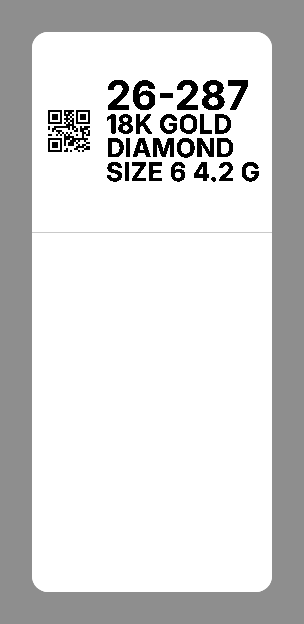
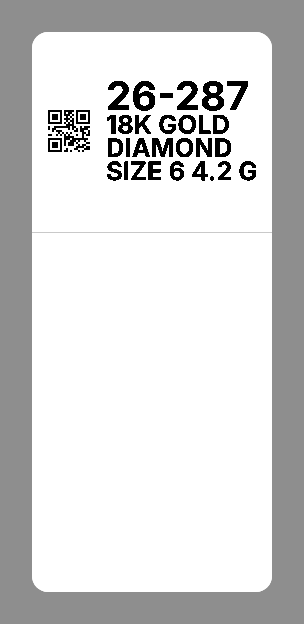
Equalize sticker side margins and match Download to Print.
The JO card and jewelry tag head reserve the same right margin as the QR's left ink, and the preview Download button uses Print's font size and height.

Changed region(s): [[0.3553, 0.1218, 0.8586, 0.3045]]

diff --git a/print-label.js b/print-label.js
@@ -228,6 +228,66 @@ function fitLine(text, maxW, start, min) {
   if (size) return { text: text, size: size };
   return { text: ellipsis(text, maxW, min), size: min };
 }
+/* Right edge of the ink, in label pixels, for text drawn at x = 0. Same 4× threshold as stampText. */
+function inkSpan(text, size) {
+  var m = metricsOf(text, size);
+  var tw = Math.max(2, Math.ceil(m.w + 4));
+  var th = Math.max(2, Math.ceil(m.ascent + m.descent + 4));
+  var canvas = makeCanvas(tw * SCALE, th * SCALE);
+  var ctx = canvas.getContext('2d');
+  ctx.fillStyle = '#ffffff';
+  ctx.fillRect(0, 0, canvas.width, canvas.height);
+  ctx.fillStyle = '#000000';
+  ctx.textBaseline = 'alphabetic';
+  ctx.textAlign = 'left';
+  ctx.font = fontCss(size);
+  var ascent = ctx.measureText(text).actualBoundingBoxAscent || size * SCALE * 0.72;
+  ctx.fillText(text, 0, Math.round(ascent));
+  var data = ctx.getImageData(0, 0, canvas.width, canvas.height).data;
+  var maxX = -1, x, y, dy, dx, dark, si;
+  for (y = 0; y < th; y++) for (x = 0; x < tw; x++) {
+    dark = 0;
+    for (dy = 0; dy < SCALE; dy++) for (dx = 0; dx < SCALE; dx++) {
+      si = ((y * SCALE + dy) * canvas.width + (x * SCALE + dx)) * 4;
+      if (data[si] < 150) dark++;
+    }
+    if (dark >= 6 && x > maxX) maxX = x;
+  }
+  return { right: maxX < 0 ? 0 : maxX };
+}
+/* Largest size whose ink ends on targetRight, at most 1 px short and never past it. */
+function sizeForInk(text, targetRight, start, min) {
+  var lo, hi, mid, span, best, guard;
+  if (!text) return null;
+  if (start < min) start = min;
+  lo = min;
+  hi = start;
+  best = null;
+  guard = 0;
+  while (hi - lo > 0.05 && guard < 28) {
+    guard++;
+    mid = (lo + hi) / 2;
+    span = inkSpan(text, mid);
+    if (span.right > targetRight) hi = mid;
+    else { best = { size: mid, span: span }; lo = mid; }
+  }
+  if (!best) {
+    span = inkSpan(text, min);
+    if (span.right > targetRight) {
+      text = ellipsis(text, Math.max(8, targetRight), min);
+      span = inkSpan(text, min);
+    }
+    return { text: text, size: min, span: span };
+  }
+  span = best.span;
+  while (span.right < targetRight - 1 && best.size + 0.1 <= start + 0.001) {
+    mid = Math.round((best.size + 0.1) * 1000) / 1000;
+    span = inkSpan(text, mid);
+    if (span.right > targetRight) break;
+    best = { size: mid, span: span };
+  }
+  return { text: text, size: best.size, span: best.span };
+}
 
 /* 4x fillText, then a coverage threshold. Faint gray fringes stay white. QR is not on this canvas. */
 function stampText(img, runs, box) {
@@ -302,14 +362,20 @@ function render(opts) {
     var mod = 3, quiet = 4;
     var qpix = mods ? qrSize(mods, mod, quiet) : 0;
     var gap = qpix ? 8 : 0;
-    var colW = Math.max(8, box.labelW - pad * 2 - qpix - gap - 2);
+    /* Right ink margin matches the QR's left ink margin. The quiet zone is white, so the ink starts after it. */
+    function tagTarget() {
+      var leftInk = qpix ? pad + quiet * mod : pad;
+      return Math.max(8, box.labelW - 1 - leftInk - (pad + qpix + gap));
+    }
+    var colW = tagTarget() + 1;
     /* Module 3 leaves a short column. Below 22 px, Inter caps are under about 2 mm, so drop the QR to module 2. */
     if (mods && specs.length && fitSpecs(specs, colW).size < 22 && qrSize(mods, 2, quiet) <= box.labelH - pad * 2) {
       mod = 2;
       qpix = qrSize(mods, mod, quiet);
       gap = 8;
-      colW = Math.max(8, box.labelW - pad * 2 - qpix - gap - 2);
+      colW = tagTarget() + 1;
     }
+    var target = tagTarget();
     var innerH = box.labelH - pad * 2 - 2;
     var specCap = SPEC_PX;
     var fitted = { size: 0, lines: [] };
@@ -317,11 +383,23 @@ function render(opts) {
     var block = 0, joM = { ascent: 0, descent: 0 }, lineH = 0, guard = 0;
     while (guard < 40) {
       guard++;
-      fitted = specs.length ? fitSpecs(specs, colW, specCap) : { size: 0, lines: [] };
-      specPx = fitted.size;
+      var longest = '', longestW = -1;
+      specs.forEach(function (t) {
+        var w = metricsOf(t, 16).w;
+        if (w > longestW) { longestW = w; longest = t; }
+      });
+      var specInk = specs.length ? sizeForInk(longest, target, specCap, SPEC_MIN) : null;
+      specPx = specInk ? specInk.size : 0;
+      fitted = {
+        size: specPx,
+        lines: specs.map(function (t) {
+          if (!specPx || inkSpan(t, specPx).right <= target) return t;
+          return ellipsis(t, Math.max(8, target), specPx);
+        })
+      };
       var joMin = specPx ? specPx + 2 : 18;
       if (joMin > JO_MAX) joMin = JO_MAX;
-      joFit = jo ? fitLine(jo, colW, JO_MAX, joMin) : null;
+      joFit = jo ? sizeForInk(jo, target, JO_MAX, joMin) : null;
       joPx = joFit ? joFit.size : 0;
       joM = joFit ? metricsOf(joFit.text, joPx) : { ascent: 0, descent: 0 };
       lineH = 0;
@@ -358,35 +436,43 @@ function render(opts) {
     stampText(img, runs, box);
     if (mods) img.qr(mods, qrBox.x, qrBox.y, mod, quiet);
   } else {
-    /* QR fills the 20 mm height down to about 1.5 mm margins. The JO fills the
-       width that is left, with about 1 mm kept clear on the right. */
+    /* QR stays the size that fills the 20 mm height. Its left ink margin is
+       repeated on the right, and the JO shrinks into the width that is left. */
     var mods2 = jo ? makeQr(jo) : null;
     var qrMax = box.labelH - px(1.5) * 2;
     var picked = mods2 ? chooseQr(mods2, qrMax) : { mod: 3, quiet: 4, size: 0 };
     var mod2 = picked.mod, quiet2 = picked.quiet, qpix2 = picked.size;
     var gap2 = qpix2 ? 4 : 0;
-    var beside2 = Math.max(8, box.labelW - pad * 2 - qpix2 - gap2 - 2);
+    var leftInk2 = qpix2 ? pad + quiet2 * mod2 : pad;
+    var target2 = Math.max(8, box.labelW - 1 - leftInk2 - (pad + qpix2 + gap2));
     var sub = smallLine(opts);
     var innerH = box.labelH - pad * 2;
+    var cardJo = null;
     if (jo) {
-      var cardJo = fitLine(jo, beside2, 72, 16);
+      cardJo = sizeForInk(jo, target2, 72, 16);
       joPx = cardJo.size;
       lines.push(cardJo.text);
     }
     var subFit = null;
-    if (sub && jo) {
-      var subMax = Math.max(12, joPx - 6);
-      subFit = fitLine(sub, beside2, Math.min(22, subMax), 12);
-      if (subFit.size >= joPx) subFit = null;
+    function fitSub() {
+      if (!sub || !cardJo) return null;
+      var subStart = Math.max(12, Math.min(22, joPx - 6));
+      var fit = sizeForInk(sub, cardJo.span.right, subStart, 9);
+      if (fit.size >= joPx) return null;
+      return fit;
     }
+    subFit = fitSub();
     var guardCard = 0;
-    while (jo && guardCard < 40) {
+    while (jo && cardJo && guardCard < 40) {
       var jmTry = metricsOf(lines[0], joPx);
       var smTry = subFit ? metricsOf(subFit.text, subFit.size) : null;
-      var tall = jmTry.ascent + jmTry.descent + (smTry ? 4 + smTry.ascent + smTry.descent : 0);
-      if (tall <= innerH || joPx <= 16) break;
+      var tallC = jmTry.ascent + jmTry.descent + (smTry ? 4 + smTry.ascent + smTry.descent : 0);
+      if (tallC <= innerH || joPx <= 16) break;
       joPx -= 1;
-      if (subFit && subFit.size >= joPx) subFit = null;
+      cardJo = sizeForInk(lines[0], target2, joPx, 16);
+      joPx = cardJo.size;
+      lines[0] = cardJo.text;
+      subFit = fitSub();
       guardCard++;
     }
     if (subFit) lines.push(subFit.text);

diff --git a/sim/print-sim.js b/sim/print-sim.js
@@ -105,6 +105,25 @@ function landscape(img) {
   return ink;
 }
 eq(clearMargin(long) && clearMargin(wide), 'spec ink stays about 1 mm inside the 30 mm edges');
+function sideMargins(img) {
+  const x0 = img.offsetX;
+  let left = -1, right = -1;
+  for (let x = 0; x < img.labelW; x++) for (let y = 0; y < img.labelH; y++) {
+    if (img.data[(y * img.width + x0 + x) * 4] === 0) {
+      if (left < 0) left = x;
+      right = x;
+    }
+  }
+  return { left: left, right: img.labelW - 1 - right };
+}
+function sameMargin(img, msg) {
+  const m = sideMargins(img);
+  eq(m.left >= 0 && Math.abs(m.left - m.right) <= 1, msg);
+}
+sameMargin(L.render({ kind: 'jo_card', model: 'B31', jo: '26-287', due: '2026-10-21' }), 'B31 JO card left and right ink margins match');
+sameMargin(L.render({ kind: 'jo_card', model: 'B31', jo: '26-1287', due: '2026-10-21' }), 'a long JO card keeps equal side margins');
+sameMargin(L.render(Object.assign({ model: 'B1' }, tag)), 'B1 jewelry tag left and right ink margins match');
+sameMargin(L.render(Object.assign({ model: 'B1', jo: '26-1287' }, tag)), 'a long jewelry tag keeps equal side margins');
 const cal = L.render({ kind: 'cal_tag', model: 'B31' });
 eq(cal.width === 600 && cal.height === 560 && cal.lines.length === 0 && cal.qr === '', 'calibration has no JO text and no name');
 function darkAt(img, x, y) { return img.data[(y * img.width + x) * 4] === 0; }
@@ -247,8 +266,8 @@ eq(/printQueue:\s*1/.test(app) && !/printQueue/.test(cached), 'printQueue is a c
 eq(!/printMark\s*:\s*1/.test(app) && !/printEnqueue\s*:\s*1/.test(app) && !/printReprint\s*:\s*1/.test(app), 'print writes are not client reads');
 eq(fast.includes('priceJobCost: 1, printQueue: 1') && !fast.includes('dashboard: 1, printQueue'), 'Fast READS gains printQueue and FAST.CACHE does not');
 eq(dash.includes('listUsers: 1, printQueue: 1') && !dash.includes("action !== 'printQueue'"), 'DashCache READS gains printQueue and the dashboard spec does not');
-eq(index.includes('print.js?v=8') && index.includes('print-label.js?v=7') && index.includes('nav.js?v=21') && index.includes('app.js?v=30') && index.includes('settings.js?v=19') && index.includes('print.css?v=6') && index.includes('app.css?v=38') && index.includes('settings.css?v=10'), 'print assets are cache-busted');
-eq(read('nav.js').includes('print-label.js?v=7') && read('nav.js').includes('print.js?v=8') && read('nav.js').includes('menuHtml'), 'the scanner injects the current label renderer');
+eq(index.includes('print.js?v=8') && index.includes('print-label.js?v=8') && index.includes('nav.js?v=21') && index.includes('app.js?v=30') && index.includes('settings.js?v=19') && index.includes('print.css?v=7') && index.includes('app.css?v=38') && index.includes('settings.css?v=10'), 'print assets are cache-busted');
+eq(read('nav.js').includes('print-label.js?v=8') && read('nav.js').includes('print.js?v=8') && read('nav.js').includes('menuHtml'), 'the scanner injects the current label renderer');
 eq(read('print.js').includes('offsetMm') && read('staff/print-test.html').includes('prOff'), 'offsets are saved per model and shown on the print test page');
 eq(read('staff/print-test.html').includes('OYPLabel.preview') && read('print.js').includes('oyp-qprev'), 'print test and the queue preview the sticker, not the printhead');
 const testPage = read('staff/print-test.html'), testCss = read('print.css');
@@ -261,6 +280,7 @@ eq(read('print.js').includes('Open in Chrome or Edge to connect a printer') && r
 eq(testPage.indexOf('<h2>Printer</h2>') < testPage.indexOf('<h2>Print queue</h2>') && testPage.indexOf('<h2>Print queue</h2>') < testPage.indexOf('<h2>Label alignment</h2>'), 'print test leads with printer settings, then the queue, then label alignment');
 eq(read('print.js').includes('id="prDark"') && read('print.css').includes('#prDark .pill.sm{min-width:32px'), 'each darkness number is a staff pill at least 32 px wide');
 eq(read('print.js').includes('labelOpts') && !/client:\s*item\.client/.test(read('print.js')), 'the printer payload builder does not copy the client name');
+eq(testPage.includes("textContent = 'Download'") && testPage.includes("textContent = 'PRINT'") && !testPage.includes('DOWNLOAD PNG') && testPage.includes("png.className = 'pill sm outline'") && testPage.includes("go.className = 'pill sm'") && testCss.includes('.oyp-pr-acts .pill.sm.outline{align-self:stretch;display:inline-flex;align-items:center;justify-content:center;font-size:var(--d-btnsm-fp,calc(14px*var(--hs)));font-weight:var(--d-btnsm-g,500);border-width:1px;padding-top:calc(9px*var(--sp) - 1px)'), 'Download matches Print in size and stays an outline');
 
 if (failed) { console.error(failed + ' failed'); process.exit(1); }
 console.log('print-sim passed');

diff --git a/staff/print-test.html b/staff/print-test.html
@@ -8,7 +8,7 @@
 <script src="../design.js?v=6"></script>
 <link rel="stylesheet" href="../app.css?v=38">
 <link rel="stylesheet" href="../settings.css?v=10">
-<link rel="stylesheet" href="../print.css?v=6">
+<link rel="stylesheet" href="../print.css?v=7">
 <link rel="icon" type="image/png" href="../favicon.png"><link rel="apple-touch-icon" href="../apple-touch-icon.png">
 </head><body>
 <header class="top">
@@ -31,7 +31,7 @@
 <div id="toast" class="toast hidden"></div>
 <script src="../vendor/qrcode.js?v=1"></script>
 <script src="../vendor/niimbluelib-0.47.1.js?v=1"></script>
-<script src="../print-label.js?v=7"></script>
+<script src="../print-label.js?v=8"></script>
 <script src="../print.js?v=8"></script>
 <script src="../nav.js?v=21"></script>
 <script>
@@ -96,7 +96,7 @@
     var png = document.createElement('button');
     png.type = 'button';
     png.className = 'pill sm outline';
-    png.textContent = 'DOWNLOAD PNG';
+    png.textContent = 'Download';
     png.onclick = function () { OYPPrint.download(s.kind, s); };
     row.appendChild(png);
     var go = document.createElement('button');

diff --git a/staff/index.html b/staff/index.html
@@ -13,7 +13,7 @@
 <link rel="stylesheet" href="../settings.css?v=10">
 <link rel="stylesheet" href="../production.css?v=7">
 <link rel="stylesheet" href="../consign.css?v=9">
-<link rel="stylesheet" href="../print.css?v=6">
+<link rel="stylesheet" href="../print.css?v=7">
 <link rel="icon" type="image/png" href="../favicon.png"><link rel="apple-touch-icon" href="../apple-touch-icon.png">
 </head><body>
 <header class="top">
@@ -65,7 +65,7 @@
 <script src="../production.js?v=8"></script>
 <script src="../vendor/qrcode.js?v=1"></script>
 <script src="../vendor/niimbluelib-0.47.1.js?v=1"></script>
-<script src="../print-label.js?v=7"></script>
+<script src="../print-label.js?v=8"></script>
 <script src="../print.js?v=8"></script>
 <script src="../nav.js?v=21"></script>
 <script src="../app.js?v=30"></script>

diff --git a/print.css b/print.css
@@ -30,6 +30,8 @@
 :where(.oyp-qmain .kf){display:flex;flex-wrap:wrap;gap:calc(4px * var(--sp,1));margin-top:calc(7px * var(--sp,1))}
 :where(.oyp-qbtns,.oyp-pr-acts){display:flex;flex-wrap:wrap;gap:calc(10px * var(--sp,1));align-items:center}
 :where(.oyp-pr-acts){margin-top:calc(6px * var(--sp,1))}
+.oyp-pr-acts .pill.sm{white-space:nowrap}
+.oyp-pr-acts .pill.sm.outline{align-self:stretch;display:inline-flex;align-items:center;justify-content:center;font-size:var(--d-btnsm-fp,calc(14px*var(--hs)));font-weight:var(--d-btnsm-g,500);border-width:1px;padding-top:calc(9px*var(--sp) - 1px);padding-bottom:calc(9px*var(--sp) - 1px)}
 
 .oyp-qmain{flex:1;min-width:140px}
 .oyp-qprev{width:84px;height:auto;flex:none;display:block;background:#8e8e8e;border-radius:calc(8px * var(--rad,1))}

diff --git a/nav.js b/nav.js
@@ -80,7 +80,7 @@ if (typeof document !== 'undefined' && document.createElement) {
   src = cs && (cs.src || '');
   var base = src ? src.replace(/[^/]*$/, '') : '';
   if (base && !document.querySelector('script[src*="print.js"]')) {
-    ['vendor/qrcode.js?v=1', 'vendor/niimbluelib-0.47.1.js?v=1', 'print-label.js?v=7', 'print.js?v=8'].forEach(function (rel) {
+    ['vendor/qrcode.js?v=1', 'vendor/niimbluelib-0.47.1.js?v=1', 'print-label.js?v=8', 'print.js?v=8'].forEach(function (rel) {
       var ps = document.createElement('script');
       ps.src = base + rel;
       ps.async = false;

diff --git a/print.js b/print.js
@@ -631,7 +631,7 @@ function css() {
   var base = src ? src.replace(/[^/]*$/, '') : '';
   var link = document.createElement('link');
   link.rel = 'stylesheet';
-  link.href = (base || '') + 'print.css?v=6';
+  link.href = (base || '') + 'print.css?v=7';
   (document.head || document.documentElement).appendChild(link);
 }
 function start() {
